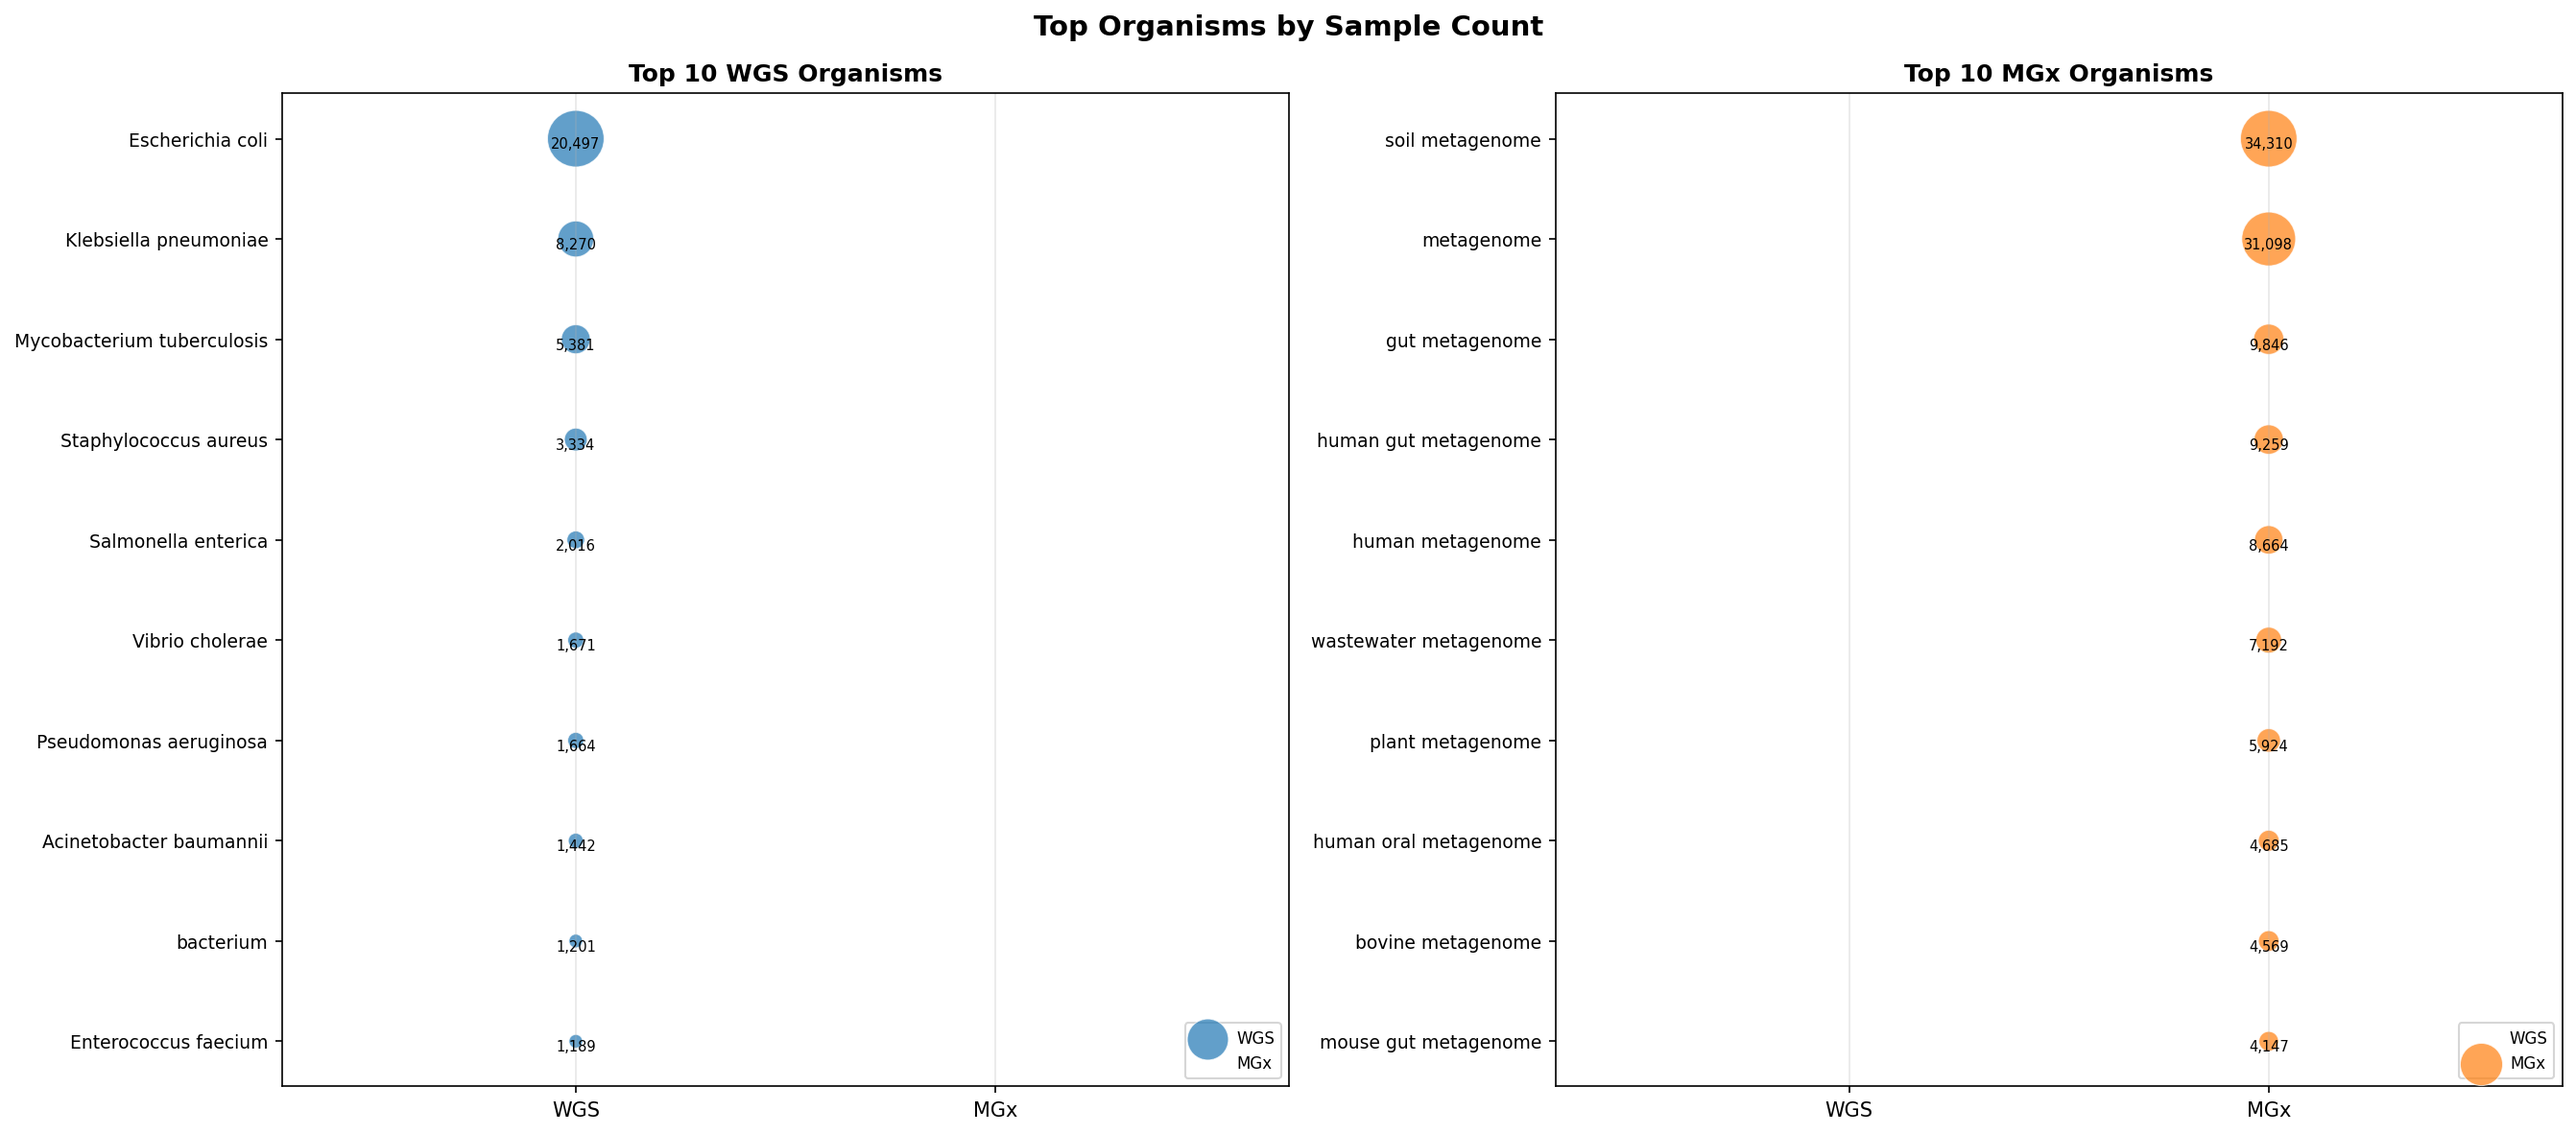
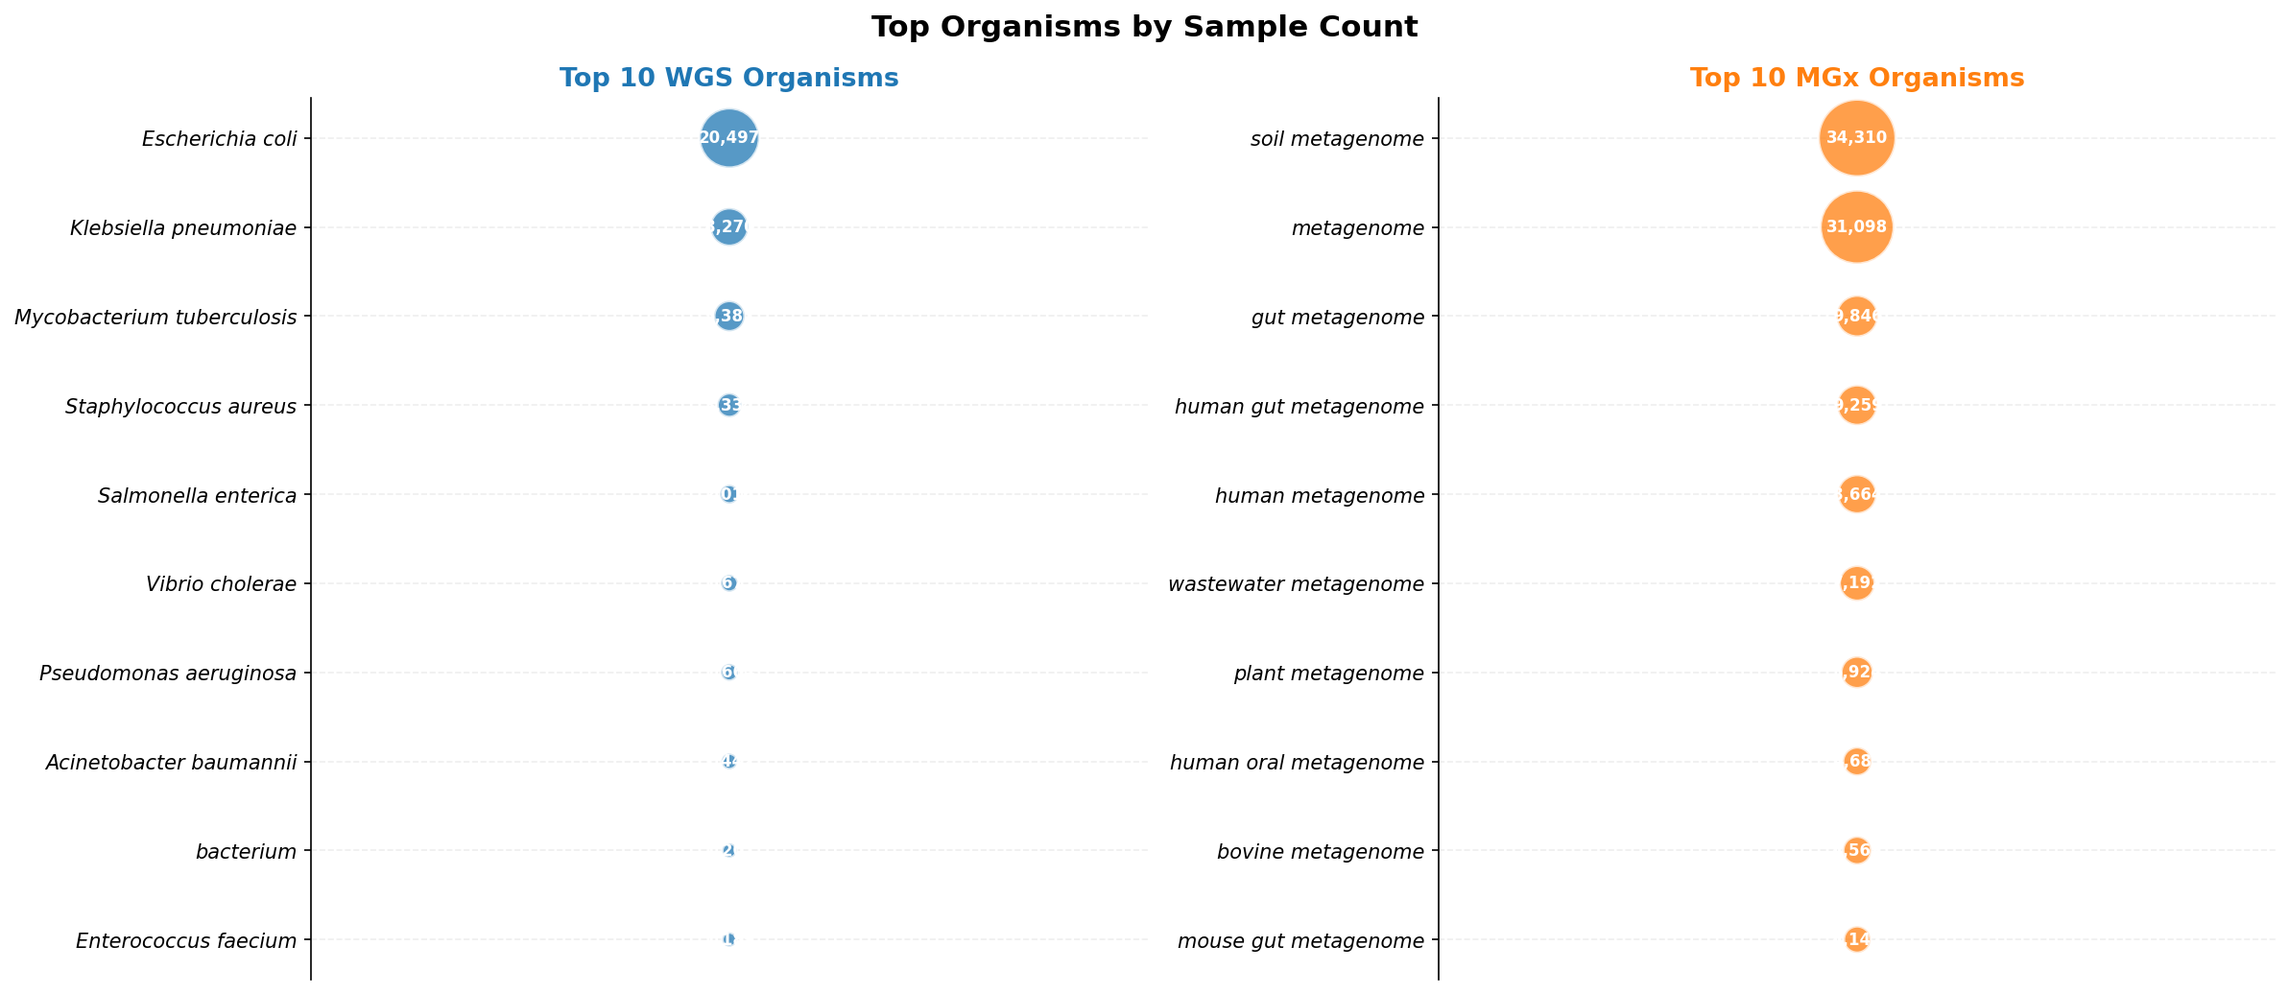
Improve summary plot with dual y-axis for hybrid visibility and redesign bubble chart
- Summary plot: use secondary y-axis (right) for hybrid sample counts so
  they're visible at their own scale instead of being crushed at zero
- Bubble plot: simplify to single-column layout per panel with proportional
  bubbles, count labels inside, italic names, and cleaner styling

https://claude.ai/code/session_01T71fUmCDCBSTCAaUi7yKAR

diff --git a/genome-dashboard/generate_plot.py b/genome-dashboard/generate_plot.py
@@ -40,7 +40,7 @@ def load_json_gz(path):
 
 
 def generate_plot(csv_file, output_image):
-    """Generates a line plot from the historical data, including hybrid sample counts."""
+    """Generates a line plot from the historical data with dual y-axes for hybrid visibility."""
     if not os.path.exists(csv_file) or os.path.getsize(csv_file) == 0:
         print(f"Warning: {csv_file} is missing or empty. Creating a 'No data' plot.", flush=True)
         plt.figure(figsize=(10, 6))
@@ -65,29 +65,50 @@ def generate_plot(csv_file, output_image):
     df["date"] = pd.to_datetime(df["date"])
     df = df.sort_values(by="date")
 
-    plt.figure(figsize=(10, 6))
-    plt.plot(df["date"], df["wgs_samples"], marker='o', linestyle='-',
-             color=COLOR_WGS, label="WGS Samples")
-    plt.plot(df["date"], df["mgx_samples"], marker='o', linestyle='-',
-             color=COLOR_MGX, label="MGx Samples")
+    has_hybrid = ("hybrid_wgs" in df.columns or "hybrid_mgx" in df.columns)
+    # Check if any hybrid values are non-zero
+    has_hybrid_data = has_hybrid and (
+        (df.get("hybrid_wgs", pd.Series([0])).max() > 0) or
+        (df.get("hybrid_mgx", pd.Series([0])).max() > 0)
+    )
 
-    # Plot hybrid sample lines (dotted, same colors) if columns exist
-    if "hybrid_wgs" in df.columns:
-        plt.plot(df["date"], df["hybrid_wgs"], marker='s', linestyle=':',
-                 color=COLOR_WGS, label="Hybrid WGS", alpha=0.8)
-    if "hybrid_mgx" in df.columns:
-        plt.plot(df["date"], df["hybrid_mgx"], marker='s', linestyle=':',
-                 color=COLOR_MGX, label="Hybrid MGx", alpha=0.8)
+    fig, ax1 = plt.subplots(figsize=(10, 6))
+
+    # Primary y-axis: WGS and MGx
+    l1, = ax1.plot(df["date"], df["wgs_samples"], marker='o', linestyle='-',
+                   color=COLOR_WGS, label="WGS Samples", linewidth=2)
+    l2, = ax1.plot(df["date"], df["mgx_samples"], marker='o', linestyle='-',
+                   color=COLOR_MGX, label="MGx Samples", linewidth=2)
+    ax1.set_xlabel("Date")
+    ax1.set_ylabel("Number of Samples (WGS / MGx)", color='black')
+    ax1.tick_params(axis='x', rotation=90)
+    ax1.grid(True, alpha=0.3)
+
+    lines = [l1, l2]
+
+    # Secondary y-axis: Hybrid counts (much smaller scale)
+    if has_hybrid_data:
+        ax2 = ax1.twinx()
+        if "hybrid_wgs" in df.columns:
+            l3, = ax2.plot(df["date"], df["hybrid_wgs"], marker='s', linestyle=':',
+                           color=COLOR_WGS, label="Hybrid WGS", alpha=0.85,
+                           linewidth=2, markersize=7)
+            lines.append(l3)
+        if "hybrid_mgx" in df.columns:
+            l4, = ax2.plot(df["date"], df["hybrid_mgx"], marker='s', linestyle=':',
+                           color=COLOR_MGX, label="Hybrid MGx", alpha=0.85,
+                           linewidth=2, markersize=7)
+            lines.append(l4)
+        ax2.set_ylabel("Number of Hybrid Samples", color='gray')
+        ax2.tick_params(axis='y', labelcolor='gray')
 
     plt.title("Number of Samples Over Time")
-    plt.xlabel("Date")
-    plt.ylabel("Number of Samples")
-    plt.xticks(rotation='vertical')
-    plt.grid(True)
-    plt.legend()
-    plt.tight_layout()
+    labels = [l.get_label() for l in lines]
+    ax1.legend(lines, labels, loc='upper left')
+    fig.tight_layout()
 
     plt.savefig(output_image, dpi=150)
+    plt.close()
     print(f"✅ Plot saved to {output_image}", flush=True)
 
 
@@ -107,112 +128,71 @@ def generate_organism_bubble_plot(wgs_file, mgx_file, output_image):
     top_wgs = wgs_counts.most_common(10)
     top_mgx = mgx_counts.most_common(10)
 
-    # Collect all unique organisms across both top lists
-    all_organisms = []
-    seen = set()
-    for org, _ in top_wgs:
-        if org not in seen:
-            all_organisms.append(org)
-            seen.add(org)
-    for org, _ in top_mgx:
-        if org not in seen:
-            all_organisms.append(org)
-            seen.add(org)
+    fig, (ax1, ax2) = plt.subplots(1, 2, figsize=(16, 7))
 
-    # Build data for both categories per organism
-    wgs_vals = [wgs_counts.get(org, 0) for org in all_organisms]
-    mgx_vals = [mgx_counts.get(org, 0) for org in all_organisms]
+    # Shared bubble sizing: use sqrt scaling for better visual proportionality
+    global_max = max(
+        top_wgs[0][1] if top_wgs else 1,
+        top_mgx[0][1] if top_mgx else 1
+    )
+    max_bubble = 1500  # max bubble area in points^2
 
-    # Determine which top list each organism belongs to
-    wgs_top_set = {org for org, _ in top_wgs}
-    mgx_top_set = {org for org, _ in top_mgx}
+    def bubble_size(count):
+        return max((count / global_max) * max_bubble, 40)
 
-    fig, (ax1, ax2) = plt.subplots(1, 2, figsize=(18, 8))
-
-    # --- WGS panel (top 10 WGS organisms) ---
+    # --- WGS panel ---
     wgs_orgs = [org for org, _ in top_wgs]
     wgs_top_counts = [cnt for _, cnt in top_wgs]
-    # Also show their MGx counts for context
-    wgs_mgx_counts = [mgx_counts.get(org, 0) for org in wgs_orgs]
-
     y_pos = list(range(len(wgs_orgs)))
 
-    # Scale bubble sizes
-    max_count = max(max(wgs_top_counts), max(wgs_mgx_counts)) if wgs_mgx_counts else max(wgs_top_counts)
-    scale = 800 / max_count if max_count > 0 else 1
-
     ax1.scatter(
-        [1] * len(wgs_orgs), y_pos,
-        s=[c * scale for c in wgs_top_counts],
-        color=COLOR_WGS, alpha=0.7, edgecolors='white', linewidth=0.5,
-        label="WGS"
+        [0.5] * len(wgs_orgs), y_pos,
+        s=[bubble_size(c) for c in wgs_top_counts],
+        color=COLOR_WGS, alpha=0.75, edgecolors='white', linewidth=1.5,
+        zorder=3
     )
-    ax1.scatter(
-        [2] * len(wgs_orgs), y_pos,
-        s=[c * scale for c in wgs_mgx_counts],
-        color=COLOR_MGX, alpha=0.7, edgecolors='white', linewidth=0.5,
-        label="MGx"
-    )
-
-    # Add count labels
-    for i, (wc, mc) in enumerate(zip(wgs_top_counts, wgs_mgx_counts)):
-        ax1.annotate(f"{wc:,}", (1, i), textcoords="offset points",
-                     xytext=(0, -5), ha='center', fontsize=7, color='black')
-        if mc > 0:
-            ax1.annotate(f"{mc:,}", (2, i), textcoords="offset points",
-                         xytext=(0, -5), ha='center', fontsize=7, color='black')
+    for i, cnt in enumerate(wgs_top_counts):
+        ax1.annotate(f"{cnt:,}", (0.5, i), ha='center', va='center',
+                     fontsize=8, fontweight='bold', color='white', zorder=4)
 
     ax1.set_yticks(y_pos)
-    ax1.set_yticklabels(wgs_orgs, fontsize=9)
-    ax1.set_xticks([1, 2])
-    ax1.set_xticklabels(["WGS", "MGx"])
-    ax1.set_xlim(0.3, 2.7)
+    ax1.set_yticklabels(wgs_orgs, fontsize=10, style='italic')
+    ax1.set_xticks([])
+    ax1.set_xlim(-0.3, 1.3)
     ax1.invert_yaxis()
-    ax1.set_title("Top 10 WGS Organisms", fontsize=12, fontweight='bold')
-    ax1.legend(loc='lower right', fontsize=8)
-    ax1.grid(axis='x', alpha=0.3)
+    ax1.set_title("Top 10 WGS Organisms", fontsize=13, fontweight='bold', color=COLOR_WGS)
+    ax1.spines['top'].set_visible(False)
+    ax1.spines['right'].set_visible(False)
+    ax1.spines['bottom'].set_visible(False)
+    ax1.grid(axis='y', alpha=0.2, linestyle='--')
 
-    # --- MGx panel (top 10 MGx organisms) ---
+    # --- MGx panel ---
     mgx_orgs = [org for org, _ in top_mgx]
     mgx_top_counts = [cnt for _, cnt in top_mgx]
-    mgx_wgs_counts = [wgs_counts.get(org, 0) for org in mgx_orgs]
-
     y_pos2 = list(range(len(mgx_orgs)))
 
-    max_count2 = max(max(mgx_top_counts), max(mgx_wgs_counts)) if mgx_wgs_counts else max(mgx_top_counts)
-    scale2 = 800 / max_count2 if max_count2 > 0 else 1
-
     ax2.scatter(
-        [1] * len(mgx_orgs), y_pos2,
-        s=[c * scale2 for c in mgx_wgs_counts],
-        color=COLOR_WGS, alpha=0.7, edgecolors='white', linewidth=0.5,
-        label="WGS"
+        [0.5] * len(mgx_orgs), y_pos2,
+        s=[bubble_size(c) for c in mgx_top_counts],
+        color=COLOR_MGX, alpha=0.75, edgecolors='white', linewidth=1.5,
+        zorder=3
     )
-    ax2.scatter(
-        [2] * len(mgx_orgs), y_pos2,
-        s=[c * scale2 for c in mgx_top_counts],
-        color=COLOR_MGX, alpha=0.7, edgecolors='white', linewidth=0.5,
-        label="MGx"
-    )
-
-    for i, (wc, mc) in enumerate(zip(mgx_wgs_counts, mgx_top_counts)):
-        if wc > 0:
-            ax2.annotate(f"{wc:,}", (1, i), textcoords="offset points",
-                         xytext=(0, -5), ha='center', fontsize=7, color='black')
-        ax2.annotate(f"{mc:,}", (2, i), textcoords="offset points",
-                     xytext=(0, -5), ha='center', fontsize=7, color='black')
+    for i, cnt in enumerate(mgx_top_counts):
+        ax2.annotate(f"{cnt:,}", (0.5, i), ha='center', va='center',
+                     fontsize=8, fontweight='bold', color='white', zorder=4)
 
     ax2.set_yticks(y_pos2)
-    ax2.set_yticklabels(mgx_orgs, fontsize=9)
-    ax2.set_xticks([1, 2])
-    ax2.set_xticklabels(["WGS", "MGx"])
-    ax2.set_xlim(0.3, 2.7)
+    ax2.set_yticklabels(mgx_orgs, fontsize=10, style='italic')
+    ax2.set_xticks([])
+    ax2.set_xlim(-0.3, 1.3)
     ax2.invert_yaxis()
-    ax2.set_title("Top 10 MGx Organisms", fontsize=12, fontweight='bold')
-    ax2.legend(loc='lower right', fontsize=8)
-    ax2.grid(axis='x', alpha=0.3)
+    ax2.set_title("Top 10 MGx Organisms", fontsize=13, fontweight='bold', color=COLOR_MGX)
+    ax2.spines['top'].set_visible(False)
+    ax2.spines['right'].set_visible(False)
+    ax2.spines['bottom'].set_visible(False)
+    ax2.grid(axis='y', alpha=0.2, linestyle='--')
 
-    fig.suptitle("Top Organisms by Sample Count", fontsize=14, fontweight='bold', y=0.98)
+    fig.suptitle("Top Organisms by Sample Count", fontsize=15, fontweight='bold', y=0.98)
     plt.tight_layout()
     plt.savefig(output_image, dpi=150, bbox_inches='tight')
     plt.close()
